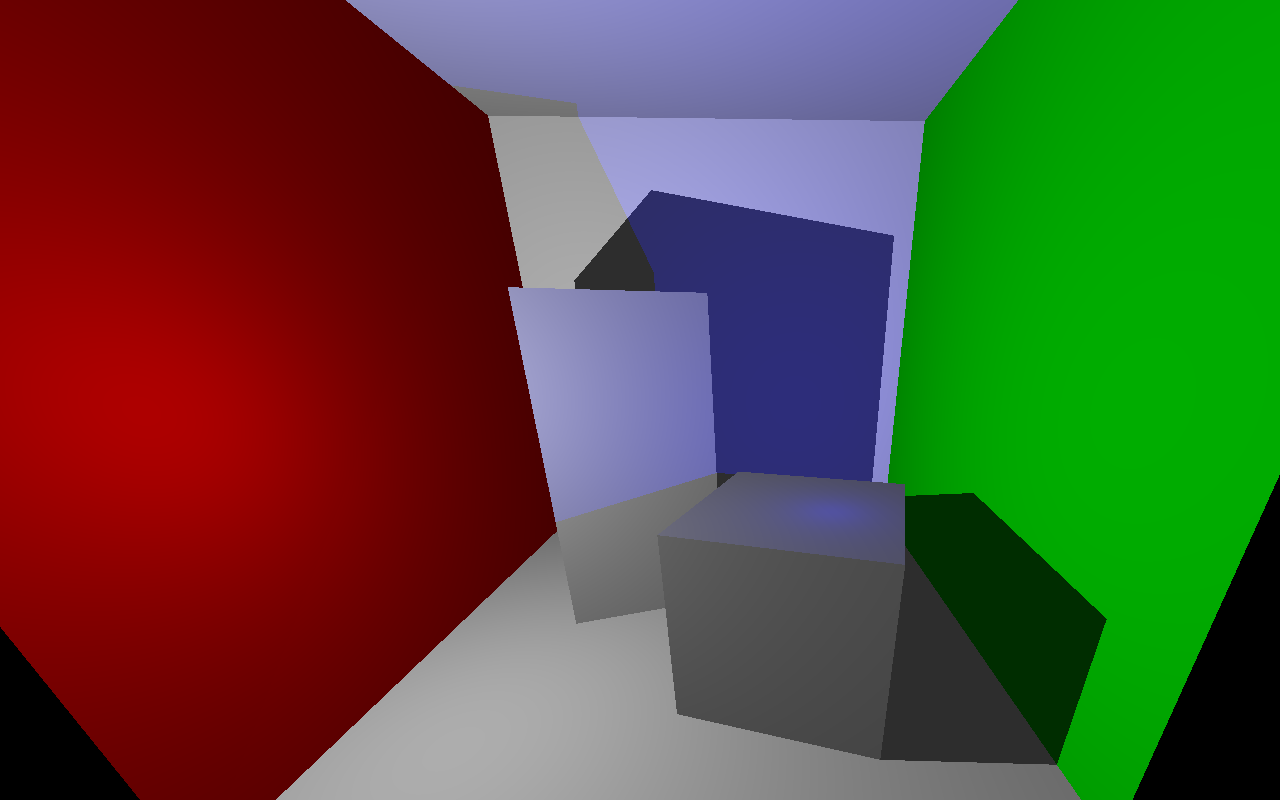
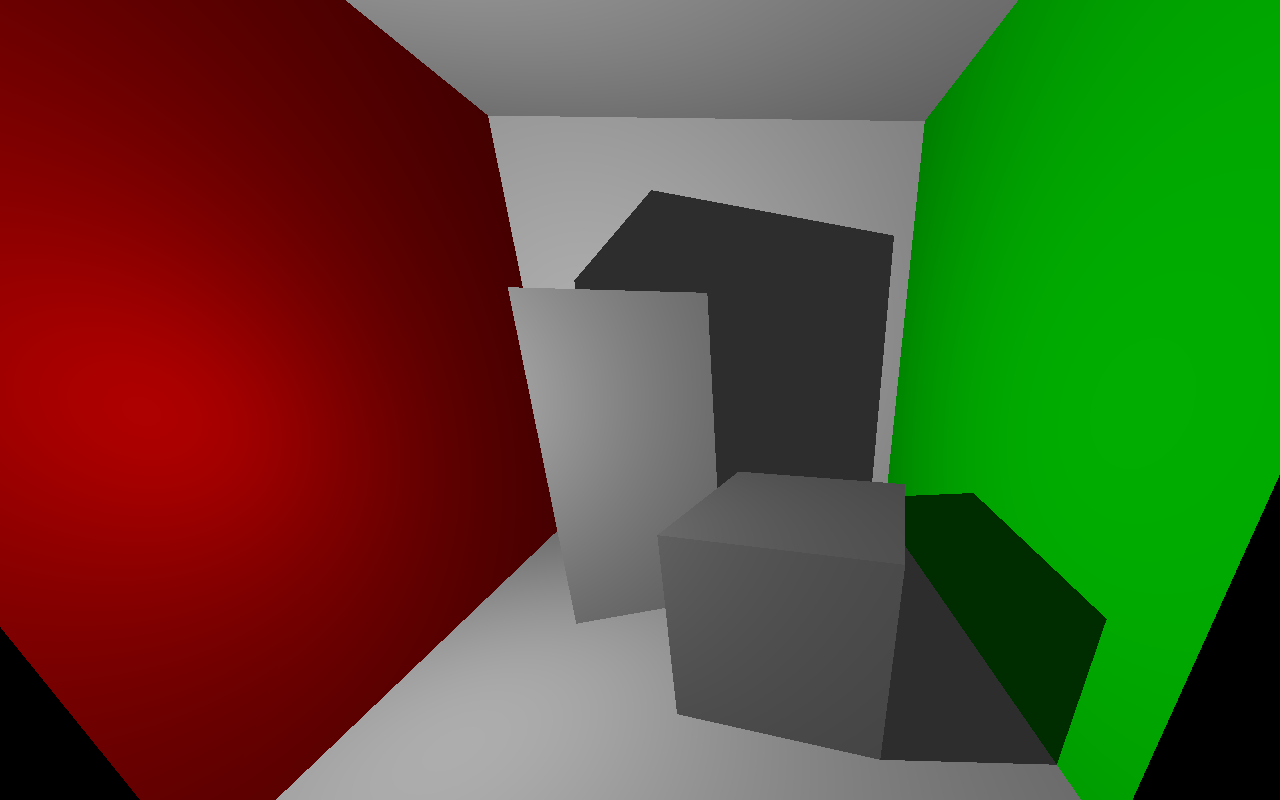
Task 1 done

Changed region(s): [[0.2812, 0.0, 0.8125, 0.7188]]

diff --git a/src/view_opengl.cpp b/src/view_opengl.cpp
@@ -26,8 +26,9 @@ ViewOpenGL::ViewOpenGL()
       ry_(Config::inst().GetOption<int>("resy")),
       window_("OpenGL preview", 10, SDL_WINDOWPOS_CENTERED, rx_, ry_, SDL_WINDOW_OPENGL),
       main_context_(SDL_GL_CreateContext(window_.Get())),
-      camera_pos_(Config::inst().GetOption<glm::vec3>("camera_pos")), fov_(65.0f),
-      pitch_(0.0f), yaw_(0.0f),
+      camera_pos_(Config::inst().GetOption<glm::vec3>("camera_pos")),
+      fov_(65.0f / Config::inst().GetOption<float>("fov_factor")), pitch_(0.0f),
+      yaw_(0.0f),
       alt_look_at_(Config::inst().GetOption<glm::vec3>("camera_lookat") - camera_pos_),
       camera_lookat_(*alt_look_at_)
 {
@@ -146,22 +147,22 @@ void ViewOpenGL::HandleKeyDown(SDL_KeyboardEvent key)
         alt_look_at_ = boost::none;
         break;
     case SDLK_w:
-        camera_pos_ += camera_lookat_;
+        camera_pos_ += camera_lookat_ * 5.0f;
         break;
     case SDLK_s:
-        camera_pos_ -= camera_lookat_;
+        camera_pos_ -= camera_lookat_ * 5.0f;
         break;
     case SDLK_a:
-        camera_pos_ += camera_lookat_side;
+        camera_pos_ += camera_lookat_side * 5.0f;
         break;
     case SDLK_d:
-        camera_pos_ -= camera_lookat_side;
+        camera_pos_ -= camera_lookat_side * 5.0f;
         break;
     case SDLK_q:
-        camera_pos_ += glm::vec3(0.0, 1.0, 0.0);
+        camera_pos_ += glm::vec3(0.0, 1.0, 0.0) * 5.0f;
         break;
     case SDLK_e:
-        camera_pos_ += glm::vec3(0.0, -1.0, 0.0);
+        camera_pos_ += glm::vec3(0.0, -1.0, 0.0) * 5.0f;
         break;
     case SDLK_KP_PLUS:
         fov_ *= 1.1f;

diff --git a/src/mesh.cpp b/src/mesh.cpp
@@ -322,19 +322,15 @@ boost::optional<Intersection> Mesh::Raytrace(const glm::vec3 &source,
                 {
                     Intersection in;
                     in.diffuse = context.ambient;
-                    auto vertex_pos = vertex1.pos_ * barycentric.x;
-                    vertex_pos += vertex2.pos_ * barycentric.y;
-                    vertex_pos += vertex3.pos_ * barycentric.z;
 
                     for (const auto &light : *context.lights_)
                     {
 
-                        if (Raytrace(vertex_pos, light.position - vertex_pos, context,
+                        if (Raytrace(pos, light.position - pos, context,
                                      recursion_depth - 1))
                             continue;
 
-                        auto light_to_intersection =
-                            glm::normalize(light.position - vertex_pos);
+                        auto light_to_intersection = glm::normalize(light.position - pos);
                         auto angle_factor =
                             glm::abs(glm::dot<3, float, glm::qualifier::highp>(
                                 light_to_intersection, glm::normalize(normal)));

diff --git a/inc/scene.h b/inc/scene.h
@@ -6,6 +6,7 @@
 #include <assimp/postprocess.h>
 #include <boost/optional.hpp>
 #include <glm/glm.hpp>
+#include <vector>
 
 struct Intersection
 {

diff --git a/README.md b/README.md
@@ -1,0 +1,70 @@
+#  LightWelter; yet another raytracer
+
+## Installation
+
+### Dependencies
+ - System packages (as named in Debian): libassimp-dev libglew-dev libsdl2-dev libsdl2-image-dev libspdlog-dev cmake
+ - OpenGL ES 3.10 capable driver
+ - C++14 capable compiler
+ - internet connection (cmake will download some other dependencies)
+
+### Installation
+```bash
+git clone https://github.com/acriaer/light-welter.git
+cd light-welter
+mkdir build
+cd build
+cmake -DCMAKE_BUILD_TYPE=Release ..
+make -j4
+cd ..
+```
+
+### Usage
+```bash
+./build/demo_app <rtc_file> [--<config_option_name>=<config_option_value>]*
+```
+
+You should see two windows: one for the opengl preview and one for the raytracer's output image. Press ENTER key to start raytracing. You can alse use some other keys:
+
+ - X -- unlock free camera movement
+ - WSADQE -- move the camera around
+ - arrow keys -- change camera orientation
+ - +/- -- increase/decrease the field of view
+ - ESCAPE -- quit
+
+For now please only use "standard" resolutions, i.e. 640x480 instead of 600x400.
+
+### Examples
+>./build/demo_app res/view_test/view_test.rtc 
+
+![alt text](res/view_test/view_test.png)
+
+>./build/demo_app res/view_test/cornell.rtc
+
+![alt text](res/view_test/cornell.png)
+
+>./build/demo_app res/view_test/cornell2.rtc
+
+![alt text](res/view_test/cornell2.png)
+
+>./build/demo_app res/phoenix/phoenix.rtc
+
+![alt text](res/phoenix/phoenix.png)
+
+>./build/demo_app res/phoenix/phoenix2.rtc
+
+![alt text](res/phoenix/phoenix2.png)
+
+>./build/demo_app --resx=1280 --resy=800 res/rocks/rocks.rtc (scene not avaliable in the repo)
+![alt text](res/rocks/rocks.png)
+
+## Other software used
+>http://ogldev.atspace.co.uk/index.html
+
+>https://github.com/opengl-tutorials/ogl
+
+>SDL2pp
+
+>spdlog
+
+>pugixml
